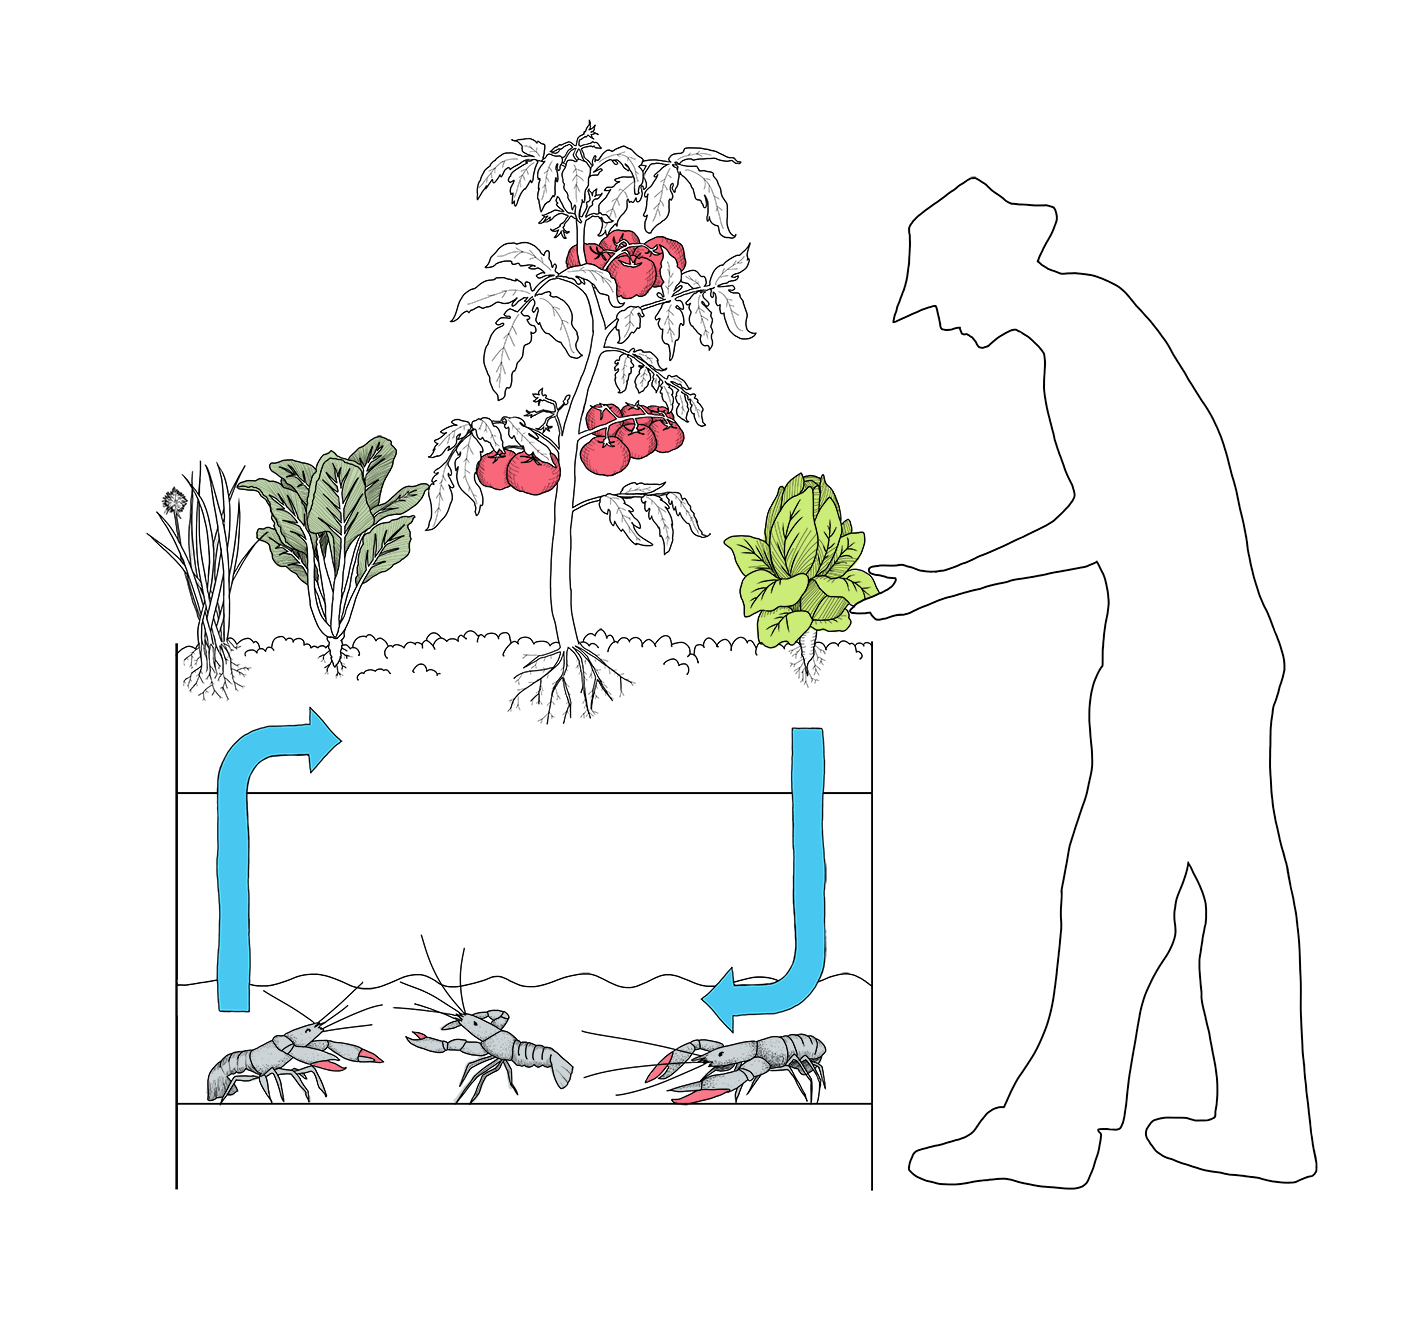
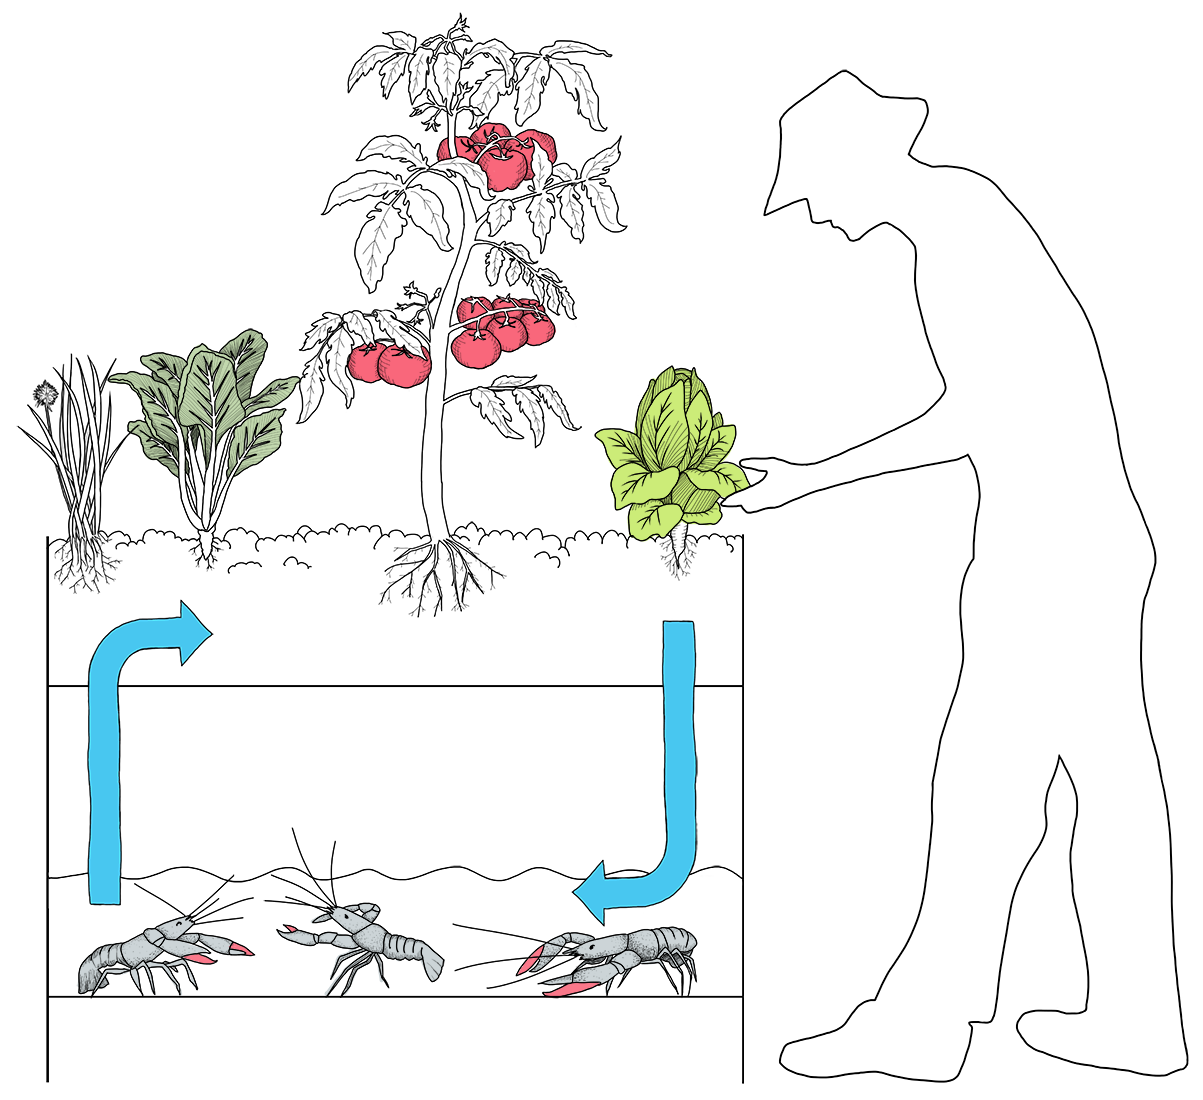
background

diff --git a/source/stylesheets/pages/_home.scss b/source/stylesheets/pages/_home.scss
@@ -3,14 +3,19 @@
   height: 100vh;
   display: flex;
   flex-direction: column;
-  position: relative;
   justify-content: space-around;
+  position: relative;
 }
+
 .name {
-  font-size: 40px;
+  font-size: 60px;
+  font-family: 'Amatic SC', cursive;
+  text-align: center;
 }
 .catchphrase {
   font-size: 30px;
+  font-family: 'Amatic SC', cursive;
+  margin: 0px 20px;
 }
 .fa-arrow-circle-o-down {
   font-size: 50px;
@@ -22,17 +27,28 @@
   margin: 0 -21px;
  }
 
-.projet {
-
+.title {
+  font-size: 30px;
 }
 .equation {
   width: 100%;
 }
 
 #vocab {
+  font-size: 20px;
+  font-weight: 200;
+  background: -webkit-linear-gradient(left,#43C996 0%,#62CAD9 50%,#305A8D 100%);
+  padding: 40px 0px;
+  color: white;
 }
 
 .definition {
+  padding: 50px 0px;
+  background: -webkit-linear-gradient(left,#43C996 0%,#62CAD9 50%,#305A8D 100%);
+  color: white;
+}
+.definition-txt {
+
 }
 
 .calcul {
@@ -44,30 +60,26 @@
 }
 
 .process-img {
-  height: 450px;
   background-image: image-url("../images/aquapo.png");
   background-size: contain;
   background-repeat: no-repeat;
   background-position: center;
+  height: 300px;
 }
 
 .process-txt {
-  height: 450px;
-  position: relative;
-  display: flex;
-  flex-direction: column;
-  justify-content: center;
 }
 
 .para {
-}
-
-.partenaires {
+  margin: 10px 10px;
 }
 
 .partenaires-logo {
   width: 150px;
   height: 150px;
+  margin: 20px;
 }
 
-
+#section4 {
+  height: 50vh;
+}

diff --git a/source/stylesheets/components/_banner.css.scss b/source/stylesheets/components/_banner.css.scss
@@ -1,5 +1,4 @@
 .banner_lfdq_img {
-  border-bottom: 1px solid green;
   width: 100%;
   position: absolute;
   bottom: 0px;
